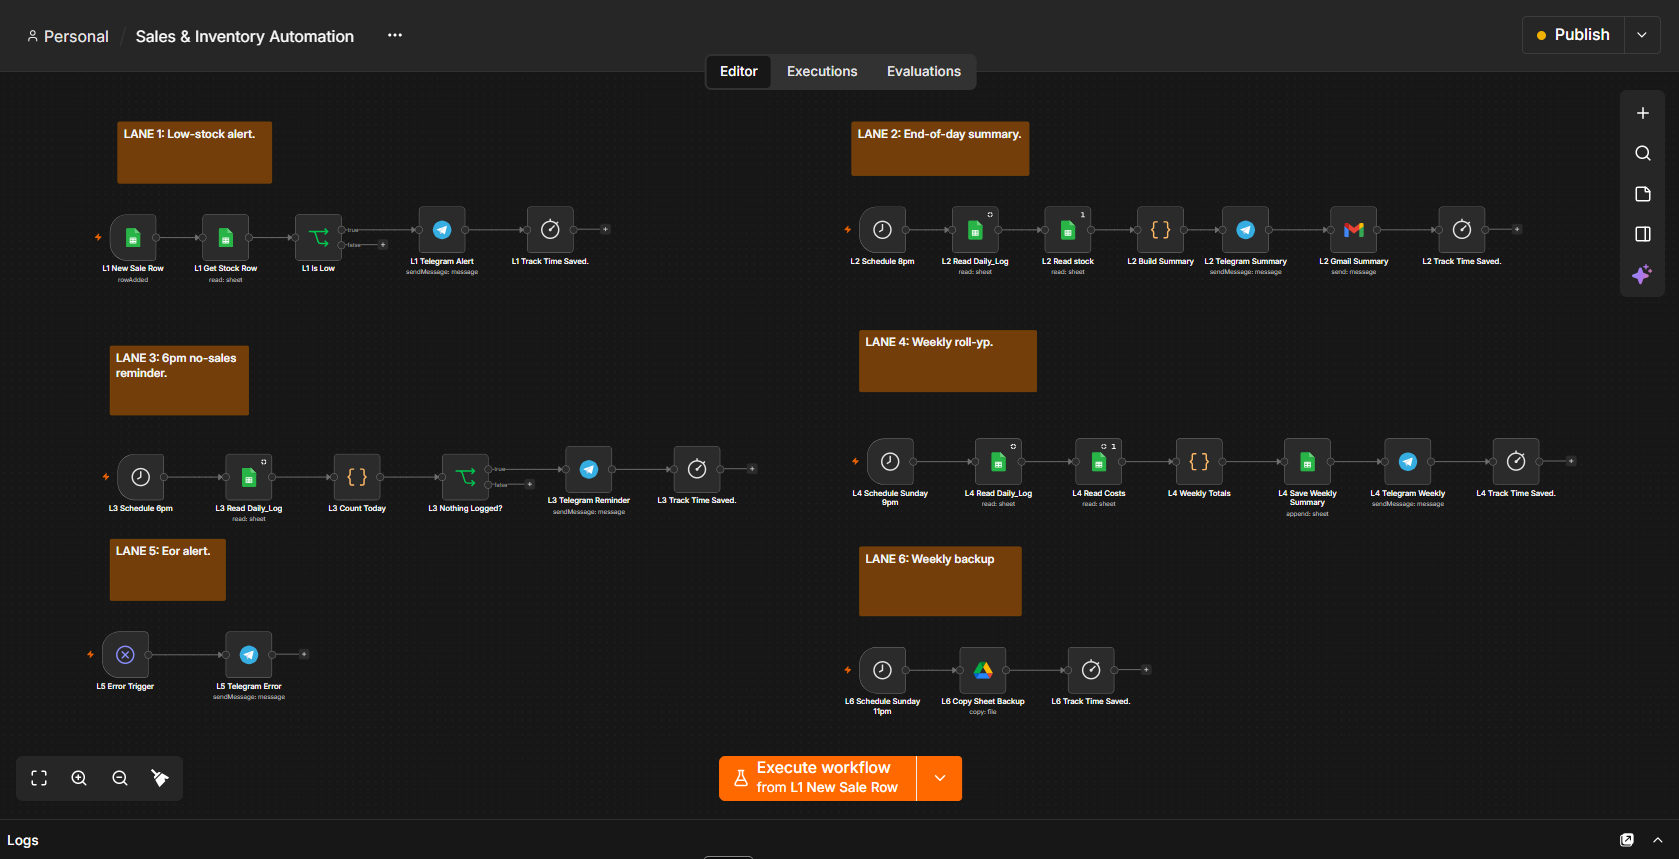
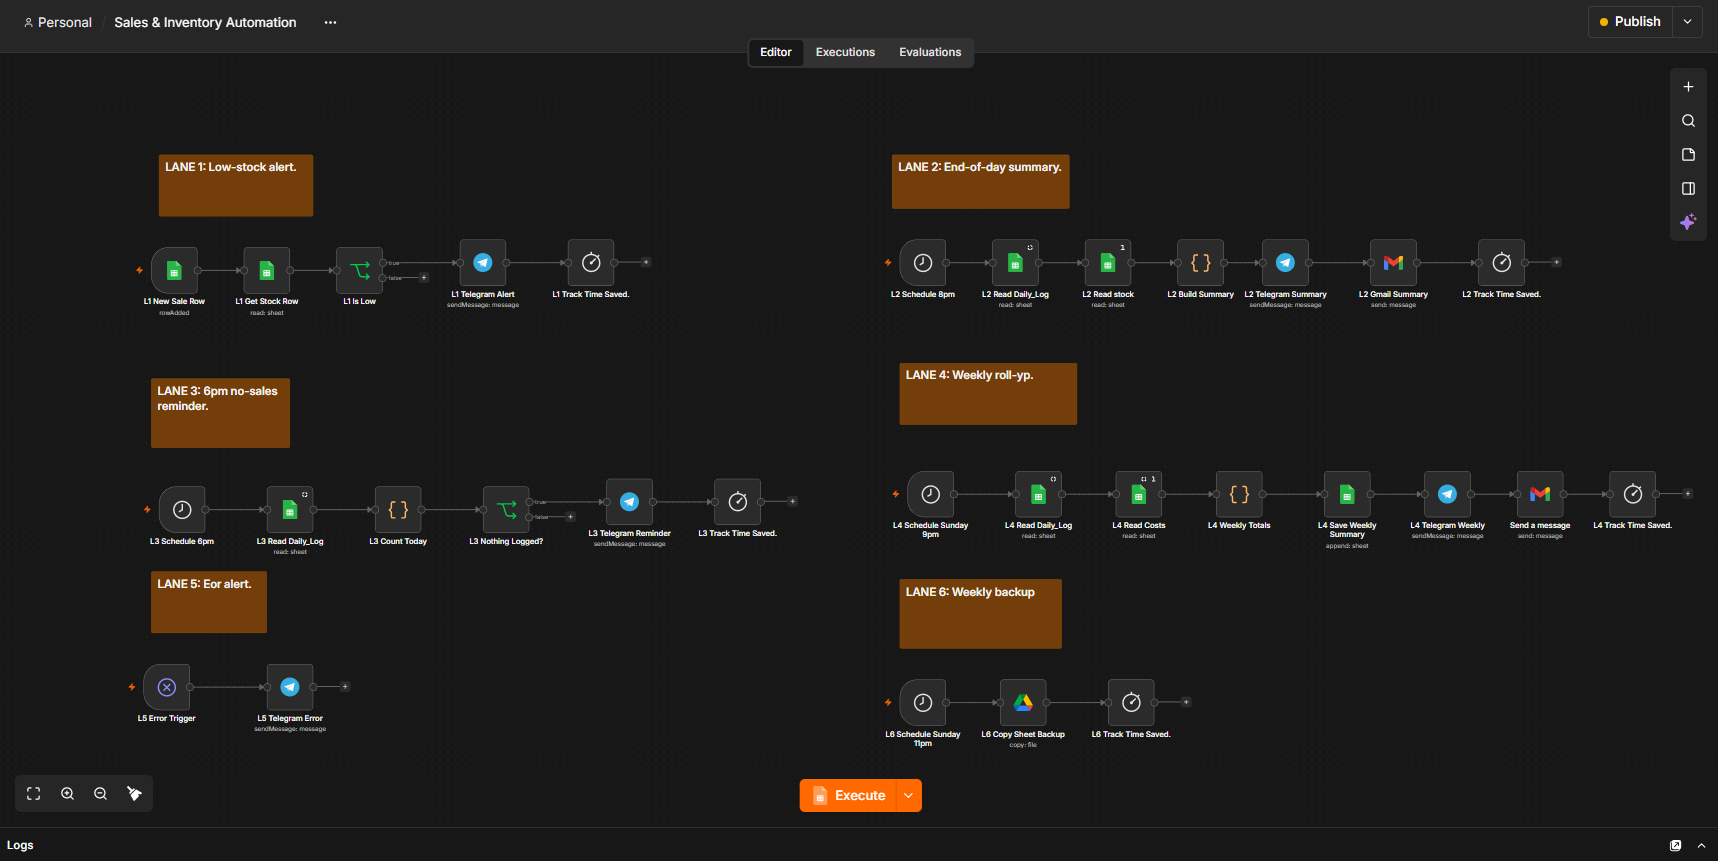
Update the Sales & Inventory canvas screenshot and lane 4 steps
The fresh canvas shows the Gmail step after Telegram Weekly in lane 4.
The lane table and flow diagram now match it.

Claude-Session: https://claude.ai/code/session_01VWfEwun7ajPKdXKZosSqpF

diff --git a/index.html b/index.html
@@ -210,7 +210,7 @@ footer{border-top:1px solid var(--line);padding:28px 0 48px;color:var(--muted);f
           <p class="tools">n8n, Google Sheets, Telegram, Gmail, Google Drive, JavaScript Code nodes</p>
           <p><a href="https://github.com/Frankdespi/Frankdespi.github.io/tree/main/projects/sales-inventory-automation">Lane-by-lane write-up on GitHub</a></p>
           <figure>
-            <img src="projects/sales-inventory-automation/canvas.png" width="1679" height="859" loading="lazy" alt="The n8n canvas for the Sales and Inventory Automation, with six lanes: a low-stock alert, an 8 pm summary, a 6 pm no-sales reminder, a Sunday weekly roll-up, an error alert, and a weekly backup.">
+            <img src="projects/sales-inventory-automation/canvas.png" width="1718" height="861" loading="lazy" alt="The n8n canvas for the Sales and Inventory Automation, with six lanes: a low-stock alert, an 8 pm summary, a 6 pm no-sales reminder, a Sunday weekly roll-up, an error alert, and a weekly backup.">
             <figcaption>The n8n canvas. It shows workflow structure only, with no credentials, names, or figures.</figcaption>
           </figure>
         </article>

diff --git a/projects/sales-inventory-automation/README.md b/projects/sales-inventory-automation/README.md
@@ -17,7 +17,7 @@ The owner logs sales, batches, and costs in Google Sheets, picking the flavour a
 | 1. Low-stock alert | A new sale row is added (Google Sheets trigger) | Get Stock Row, Is Low (IF), Telegram Alert | A Telegram message when a flavour, or its stickers, run low |
 | 2. End-of-day summary | Schedule, 8 pm | Read Daily_Log, Read stock, Build Summary (Code), Telegram Summary, Gmail Summary | Bottles sold, revenue, top seller, and exactly which flavours and sizes were sold, on Telegram and by email |
 | 3. No-sales reminder | Schedule, 6 pm | Read Daily_Log, Count Today (Code), Nothing Logged (IF), Telegram Reminder | A nudge if nothing has been logged yet |
-| 4. Weekly roll-up | Schedule, Sunday 9 pm | Read Daily_Log, Read Costs, Weekly Totals (Code), Save Weekly Summary (append to the sheet), Telegram Weekly | Revenue, costs, profit, and flavours sold, saved to the sheet and sent to the owner by Telegram and email |
+| 4. Weekly roll-up | Schedule, Sunday 9 pm | Read Daily_Log, Read Costs, Weekly Totals (Code), Save Weekly Summary (append to the sheet), Telegram Weekly, Send a message (Gmail) | Revenue, costs, profit, and flavours sold, saved to the sheet and sent to the owner by Telegram and email |
 | 5. Error alert | Error Trigger | Telegram Error | A message if anything breaks |
 | 6. Weekly backup | Schedule, Sunday 11 pm | Copy Sheet Backup (Google Drive) | A copy of the sheet saved in Google Drive |
 
@@ -43,7 +43,7 @@ flowchart TB
     end
     subgraph L4["Lane 4: weekly roll-up, Sunday 9 pm"]
         direction LR
-        d1["Schedule Sunday 9pm"] --> d2["Read Daily_Log"] --> d3["Read Costs"] --> d4["Weekly Totals<br/>Code"] --> d5["Save Weekly Summary<br/>append to sheet"] --> d6["Telegram Weekly"] --> d7["Track Time Saved"]
+        d1["Schedule Sunday 9pm"] --> d2["Read Daily_Log"] --> d3["Read Costs"] --> d4["Weekly Totals<br/>Code"] --> d5["Save Weekly Summary<br/>append to sheet"] --> d6["Telegram Weekly"] --> d6b["Send a message<br/>Gmail"] --> d7["Track Time Saved"]
     end
     subgraph L5["Lane 5: error alert"]
         direction LR
@@ -63,7 +63,7 @@ flowchart TB
 ## Three things I would tell anyone building something similar
 
 1. **Let the spreadsheet do the arithmetic and let automation handle the reporting.** Fewer moving parts means fewer things to break.
-2. **Give every node a unique name when several workflows share one canvas.** Every node here carries its lane prefix, from L1 to L6, so no two nodes ever share a name.
+2. **Give every node a unique name when several workflows share one canvas.** I prefixed node names with their lane number, from L1 to L6, so that nodes in different lanes never share a name.
 3. **Test sheet protection from a second account.** Owners are never blocked by their own locks.
 
 ## Handover
